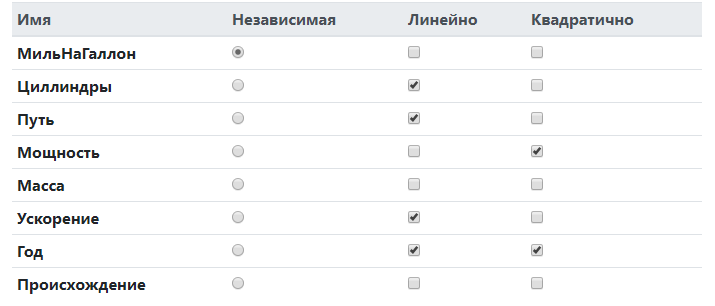
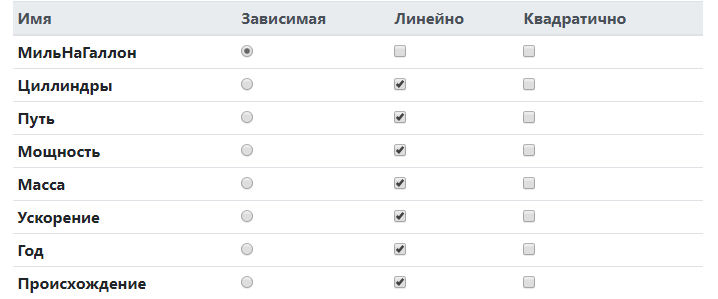
Корректировка текста

diff --git a/Work/Graphics/calculate.html b/Work/Graphics/calculate.html
@@ -30,7 +30,7 @@
             <thead class="thead-light">
             <tr>
                 <th scope="col">Имя</th>
-                <th scope="col">Независимая</th>
+                <th scope="col">Зависимая</th>
                 <th scope="col">Линейно</th>
                 <th scope="col">Квадратично</th>
             </tr>
